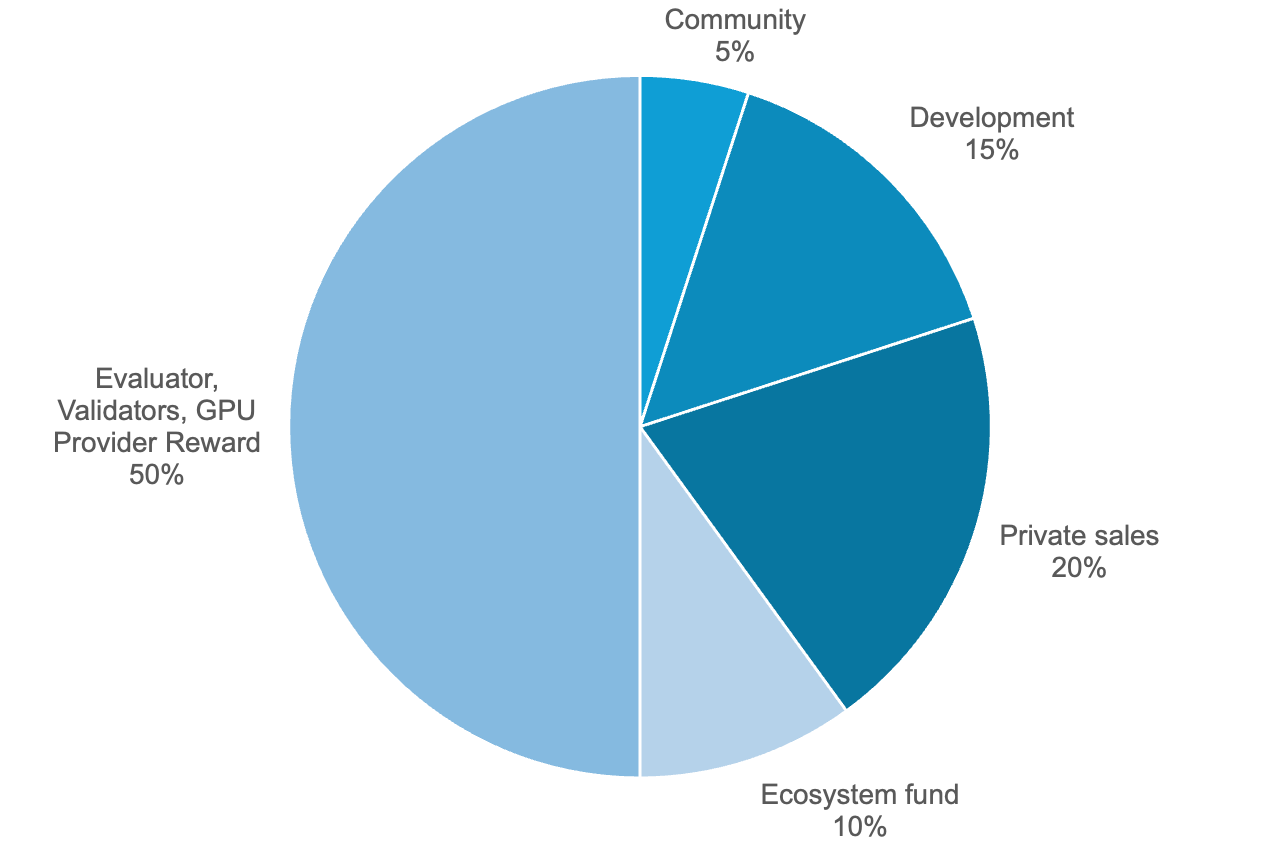
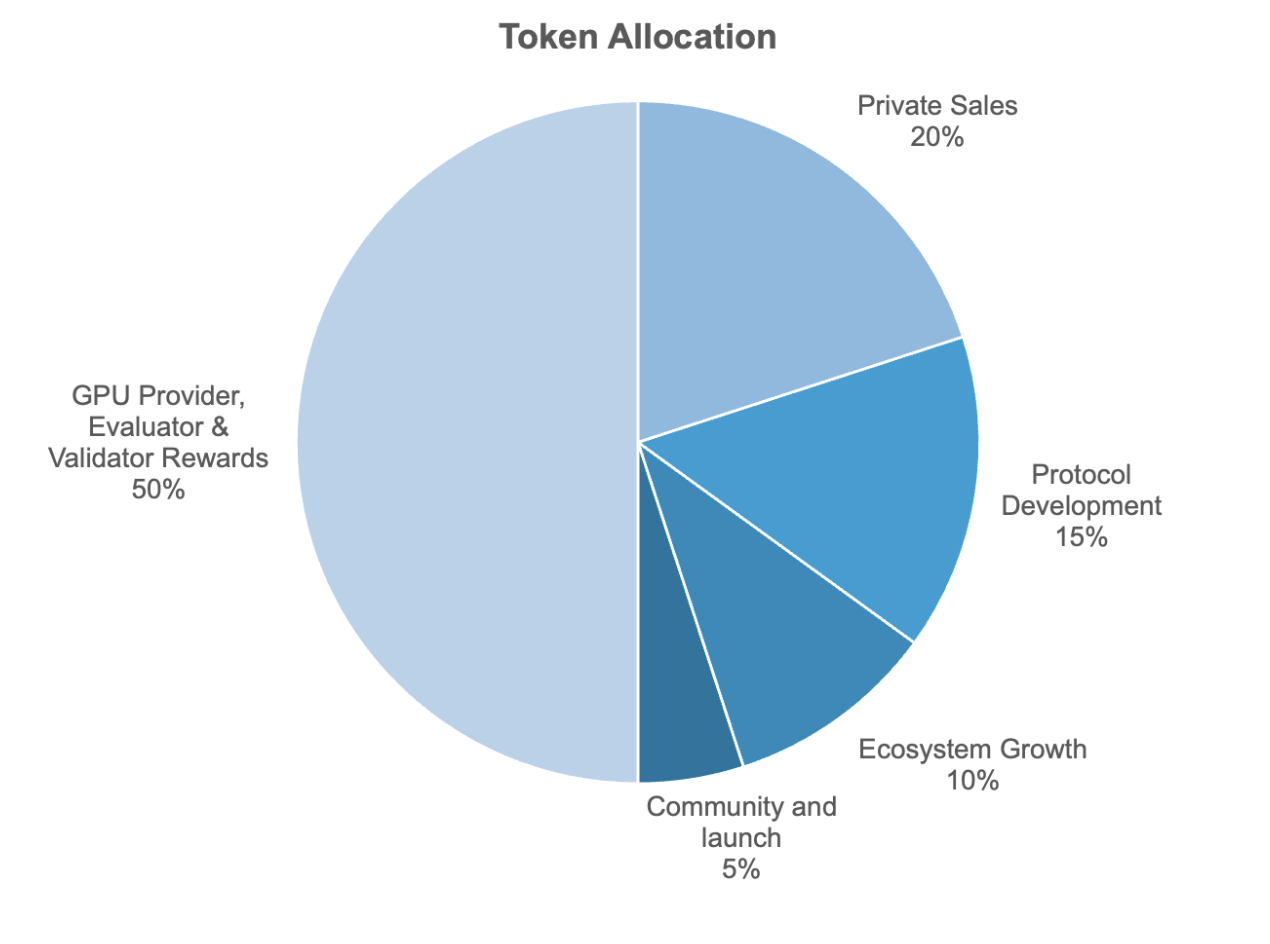
GITBOOK-442: steven', change photos of Token allocation to make it presentable in dark mode

diff --git a/resources/brand-kit.md b/resources/brand-kit.md
@@ -30,7 +30,7 @@ The letter N represents the symbol for the visual identity of Nimble and the nat
 
 Our main brand color is Black, complemented by Nimble Blue, which is used for call-to-action buttons. Muted Blue is also used for call-to-action buttons. The Nimble gradient transitions between Muted Blue, Pale Blue, and Nimble Blue in this order for background applications.
 
-<figure><img src="../.gitbook/assets/image (1) (1).png" alt=""><figcaption></figcaption></figure>
+<figure><img src="../.gitbook/assets/image (1) (1) (1).png" alt=""><figcaption></figcaption></figure>
 
 ### Nimble Gradient
 

diff --git a/general/tokenomics/token-distribution.md b/general/tokenomics/token-distribution.md
@@ -2,7 +2,7 @@
 
 The total supply of $NIM tokens is 1,000,000,000.&#x20;
 
-<figure><img src="../../.gitbook/assets/image (1).png" alt=""><figcaption></figcaption></figure>
+<figure><img src="../../.gitbook/assets/image.png" alt=""><figcaption></figcaption></figure>
 
 <figure><img src="../../.gitbook/assets/image (2).png" alt=""><figcaption></figcaption></figure>
 
